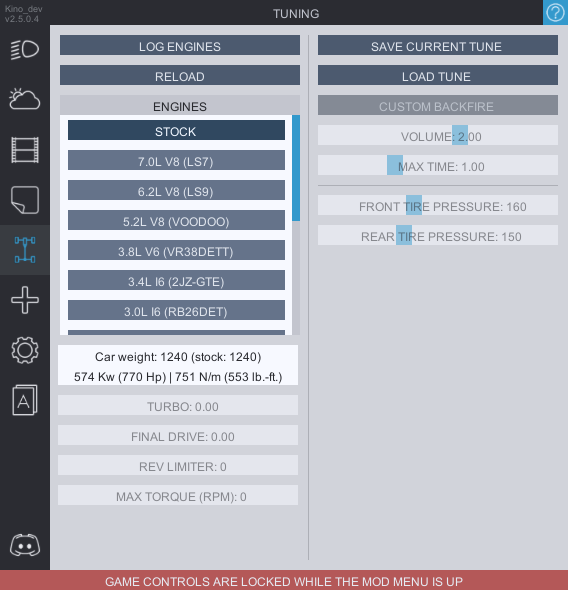
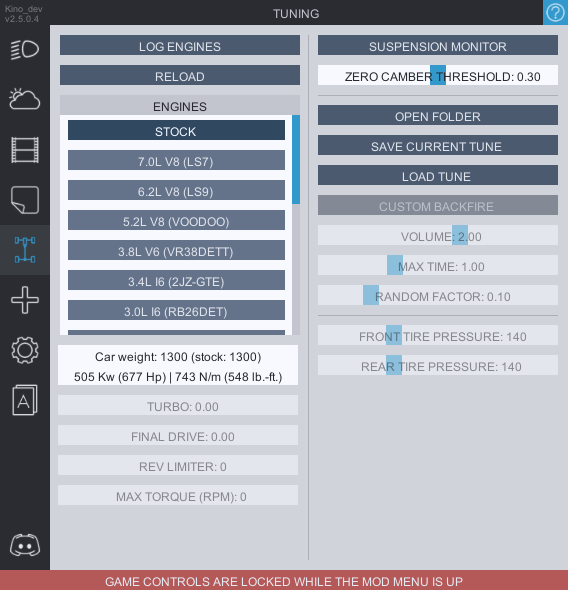
Updated mds

diff --git a/Help/Support/TOS.md b/Help/Support/TOS.md
@@ -1,0 +1,70 @@
+# KINO MOD 
+## TERMS OF SERVICE AND A GUIDE TO DONATION
+
+> The following document consists of information regarding the donation process, terms and conditions of acquiring the rewards for donations and limitations that are a part of the process. By making a donation you are agreeing to the following.  
+## [Click here for a guide and information regarding the donation process](#donation-guide)
+# Terms of service
+1. **Definitions**  
+  1.1. Modding - a process of modifying a game for the sake of adding new features/modifying the functionality of existing features.  
+
+     1.2. Kino Mod - a modification for the game CarX Drift Racing Online  
+
+     1.3. CarX Drift Racing Online - a video game created by CarX Technologies (CarX developers in the following text).  
+
+     1.4. Discord - a communication service. Used for the distribution of the Kino mod and managing it’s community.
+
+     1.5. Donation - a financial support provided through the means established by the receiving side (kino mod team in the following text).
+
+     1.6. Extras - a module given out as a reward to users with a supporter role in Kino mod’s discord server. More information is provided in the upcoming text.  
+
+     1.7. Supporter role - a role that users acquire after their donation being successfully verified.  
+
+     1.8. Validation - a process of verifying the fact of donation and unlocking the access to the Extras module for the user.  
+2. **Conditions**  
+2.1. Donations made through patreon are rewarded with a patreon supporter role in the Kino’s discord server.  
+
+   2.2. The role mentioned in 2.1 is managed automatically on the side of Patreon and only applies to the user for the period of continuous support. Kino mod team is not responsible for distribution of this reward.  
+
+   2.3. Every user with a patreon supporter role is eligible for receiving the permanent supporter role along with receiving access to the Extras module of the mod (please refer to the guide for more information).  
+
+   2.4. Membership in Kino mod’s discord server is mandatory for receiving the role along with getting the access to the aforementioned module.
+
+   2.5. The receival of discord exclusive rewards (permanent supporter role along with Extras module) is responsibility of the user making a donation. Kino mod team does not bear the responsibility for the user failing to successfully complete the process necessary for the validation.
+
+   2.6. Discord exclusive rewards are permanent and do not require continuous support as they have no relation to Patreon rewards.
+
+   2.7. Donations and the given rewards do not grant immunity to the Kino mod’s discord server rules. Loss of rewards is possible in the situation of failing to comply with the set of rules that you can learn in the mentioned discord server.
+
+   2.8. Kino mod team is only responsible for the modification and it’s maintenance. In the unforeseen event that modding the game is no longer possible due to decisions of CarX developers, Kino mod team does not bear responsibility for the functionality of the mod/loss of access to the features.
+
+# Donation guide
+
+Now that we finished with the formal part of this document, we hope for your understanding that the terms of service above are provided only to protect our side of the argument and avoid any possible misunderstanding. Please make sure to read them.
+#
+## Donation process
+Assuming you want to get a full advantage of your benefits for supporting the mod, read through the following guide which will explain everything regarding the process that follows after you make your donation on Patreon and more.  
+1. **Receiving the patreon supporter role.**  
+Once you have made the donation, you should receive the aforementioned role in our discord. For that you need to make sure you have linked your Discord in your Patreon account settings. How long it will take for you to receive the role is entirely up to Patreon and there’s nothing we can do on our side to speed up the process.  
+2. **Permanent supporter role and access to Extras module.**  
+As mentioned in the terms of service, discord exclusive rewards are permanent and don’t require you to stay subscribed to our Patreon. After you receive the role you should get a DM on discord from our bot, which will ask you to provide the link to your steam account. This is mandatory for the validation process needed for you to get access to the Extras module so please keep your DMs open.  
+
+   2.1. To get the link: Go to your Steam profile page, right click anywhere (for an example on the profile background) and click **`Copy Page URL`**.  
+   ![steam context](../../Images/steam_context.png)
+
+   2.2 Respond to the bot with the link following the command !steam like in an example bellow:
+   > !steam https://steamcommunity.com/id/examplelink
+
+   2.3 If the link you have provided is correct, the bot will respond to you confirming that it’s a working link and you will have to await for validation. Once you are validated you will also get a notification from the bot.  
+
+   2.4 Validation time: This part relies on how quickly Patreon bot is gonna give you the patreon supporter role (which might take up to a few hours from personal experience). After you get a DM from our bot and provide a valid steam link it might take up to 24 hours depending on our availability. While normally it would take a lot less, please understand that the process of validation is not automatic.  
+   
+   2.5 If you don’t get a DM from our bot after receiving the patreon supporter role - please open a ticket on our server. We will try to resolve it as quickly as possible.
+# FAQ
+- Will I get Extras if I donate?
+  > Up to you. Extras are not a part of Patreon pledge reward since the distribution of the reward heavily relies on your cooperation, however every Patreon supporter is eligible to gain access to the Extras module as a part of discord exclusive reward.
+- Can I donate for a friend?
+  > If you have a friend who is unable to donate through the means of Patreon or for some other reason - you can open a ticket in our discord and we might try to come up with a solution.
+- Do I have to stay subscribed to maintain my access to Extras?
+  > As mentioned earlier, you don’t have to stay subscribed to maintain the access to the module. The supporter role as well and the access to the Extras are permanent.
+- I got the patreon supporter role but I haven’t received a DM from the bot!
+  > If for some reason our bot is down and failed to send you a message or you had your DMs closed, please open a ticket in our Discord.

diff --git a/Help/Tuning.md b/Help/Tuning.md
@@ -5,9 +5,12 @@ The file will be saved to `CarX Drift Racing Online\BepInEx\plugins\KN_Base\tune
 **`LOAD TUNE`** opens the list with the tunes you have in your folder. And applies the tune you choose from the list.
 <p style="color:red;">Make sure to backup your tune before loading a different one otherwise you might loose it</p>
 
+**`SUSPENSION MONITOR`** adds a small interface allowing you to get live values for camber which might assists you in tuning your car. 
+**`ZERO CAMBER THRESHOLD`** a threshold for the optimal camber value around the 0. Values that are beyond the threshold will show up as green/red.
+
 **`CUSTOM BACKFIRE`** (enabled by default) adds a custom backfire to your exhaust. You can adjust the ***sound volume*** and the ***duration time*** with **`VOLUME`** and **`MAX TIME`** sliders.
 
-<p style="color:red;"><b>FOR NOW ENGINE SWAPS ARE STILL IN DEVELOPMENT AND ARE A ONLY AVAILABLE AS A PART OF THE <i>EXTRAS</i> MODULE FOR OUR SUPPORTERS. IF YOU DON'T HAVE THE ACCESS TO EXTRAS THIS TAB WILL ONLY HAVE THE CUSTOM BACKFIRE SETTINGS AT THE MOMENT</b></p>
+<p style="color:red;"><b>FOR NOW ENGINE SWAPS ARE STILL IN DEVELOPMENT AND ARE A ONLY AVAILABLE AS A PART OF THE <i>EXTRAS</i> MODULE FOR OUR SUPPORTERS. IF YOU DON'T HAVE THE ACCESS TO EXTRAS THIS TAB WILL ONLY HAVE TUNING SHARE, SUSPENSION MONITOR AND THE CUSTOM BACKFIRE SETTINGS AT THE MOMENT</b></p>
 
 Keep in mind that you can only apply them from the garage. Since they don't work with the dyno you have options to adjust turbo and final drive from the menu. Both are saved per every engine and the car.
 

diff --git a/Help/Visuals.md b/Help/Visuals.md
@@ -1,7 +1,13 @@
 ![visuals](../Images/visuals.png)
   
 # VISUALS TAB
-This tab containts the **livery sharing** feature along with the **ZOOM** and **SHIFT** options. You can only use these features while in the garage.
+This tab containts the **livery sharing** feature along with some other helpful features to aid you with livery creation. You can only use these features while in the garage.
+
+**`ENABLE SYMMETRY FOR ALL LAYERS`** allows you to mirror all layers to the other side of the car at once.
+
+**`DISABLE SYMMETRY FOR ALL LAYERS`** disables mirroring of all the layers.
+
+**`REPLACE MATERIAL`** changes the material for all the layers. No reverse button so use with caution.
   
 **`ZOOM`** allows to get the camera closer to the car (helps with creating small details on your liveries).
   
